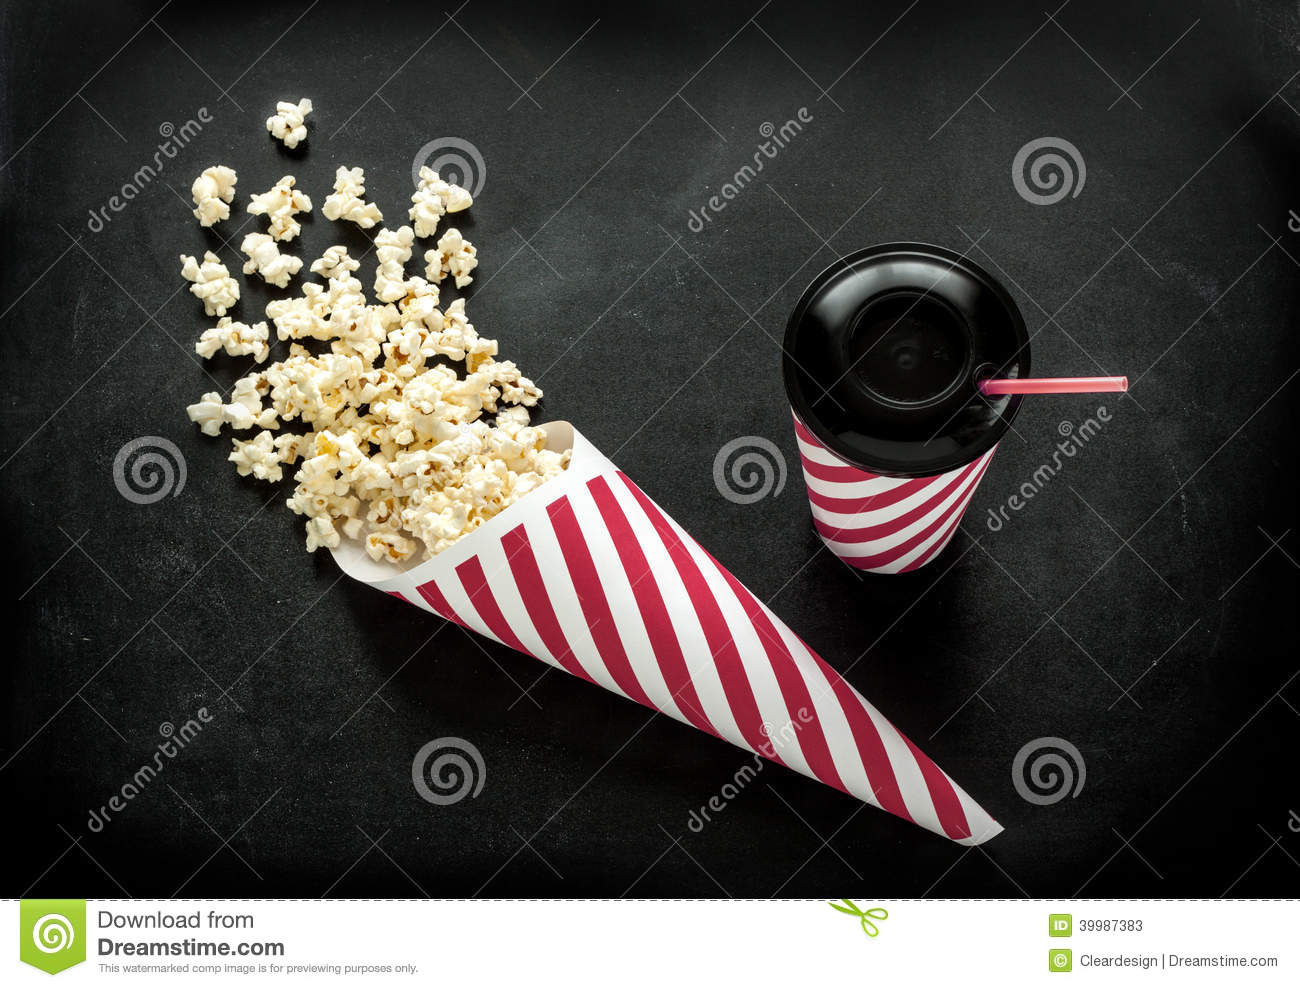
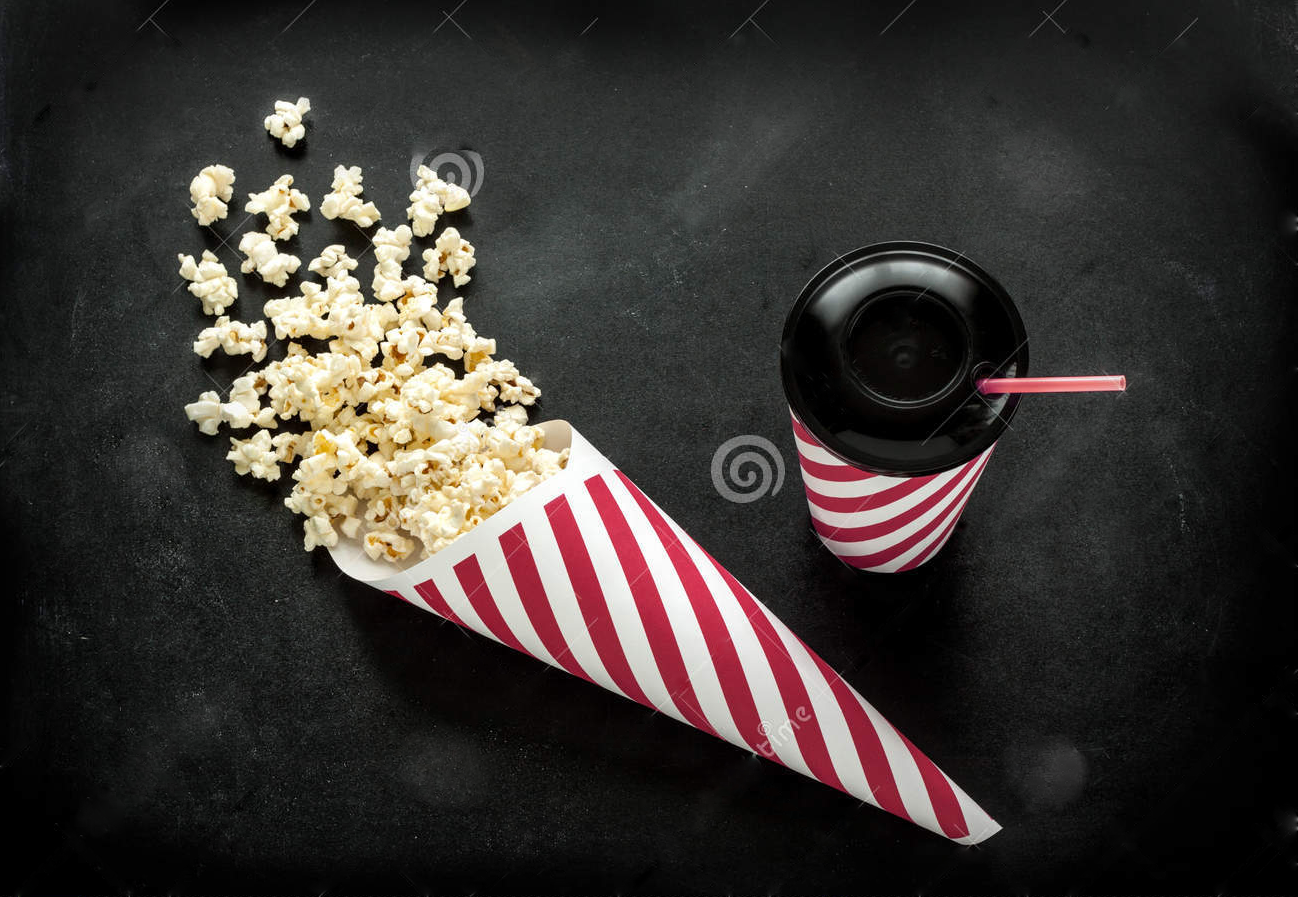
Altered some styling.

diff --git a/index.html b/index.html
@@ -6,13 +6,15 @@
     <title>MMCT Movie Theatre</title>
   </head>
   <body>
-	<h1>Welcome to MMCT Theatre!</h1>
-	<h3>We're happy to see you!</h3>
-	<p><a href="http://Disney Film Website"></a></p>
-	<h1 class="text-center">Now Showing: Beauty and the Beast</h1>
-	<section id="instructions">
-	  <h4>Seating Instructions:</h4>
-	  <p> Please select one available seat. Seats highlighted in green are available. Seats selected in red are not available.</p>
+	<section class="container">
+		<h1>Welcome to MMCT Theatre!</h1>
+		<h3>We're happy to see you!</h3>
+		<p><a href="http://Disney Film Website"></a></p>
+		<h1 class="text-center">Now Showing: Beauty and the Beast</h1>
+		<section id="instructions">
+		  <h4>Seating Instructions:</h4>
+		  <p> Please select one available seat. Seats highlighted in green are available. Seats selected in red are not available.</p>
+		</section>
 	</section>
   	<section class="container">
 	  <section class="row">
@@ -48,14 +50,15 @@
  	    <div class="col-lg-2 col-md-2 col-sm-2 col-xs-2"></div>
  	  </div>
     </section>
-
-	<form id="form">Name: <input type="text" name="name" placeholder="Name">E-mail Address: <input type="text" name="email" placeholder="E-mail address">
-	  <p>Would you recommend our theatre to friends?</p>
-	  <span> Yes</span><input type="radio" name="tier">
-	  <span> No</span><input type="radio" name="tier">
-	  <span> Maybe</span><input type="radio" name="tier">
-	  <button id="submit">Submit</button>
-	</form>
+    <section class="container">
+		<form id="form">Name: <input type="text" name="name" placeholder="Name">E-mail Address: <input type="text" name="email" placeholder="E-mail address">
+		  <p>Would you recommend our theatre to friends?</p>
+		  <span> Yes</span><input type="radio" name="tier">
+		  <span> No</span><input type="radio" name="tier">
+		  <span> Maybe</span><input type="radio" name="tier">
+		  <button id="submit">Submit</button>
+		</form>
+	</section>
 	<script src="script.js"></script>
   </body>
 </html>

diff --git a/style.css b/style.css
@@ -11,31 +11,45 @@ h1, h3, .instructions {
 }
 
 .selected {
-	border: 5px solid green;
+	background-color: green;
 }
 
 .taken {
-	border: 5px solid red;
+	background-color: red;
 }
 
 .reserved {
-	border: 5px solid blue;
+	background-color: blue;
 }
 
 .container {
+	background-color: rgba(204, 204, 204, 0.2);
+	color: white;
 	padding: 20px;
+	text-shadow: 0 0 5px black;
+	height: 100%;
 }
 
-section p {
-	margin-left: 20px;
+.row {
+	padding-left: 20px;
+	padding-right: 20px;
+}
+
+section p, h4 {
+	background-color: green;
 }
 
 body {
-    /*background-image: url("http://thumbs.dreamstime.com/z/cinema-snacks-cornet-popcorn-drink-black-paper-cup-straw-chalkboard-background-39987383.jpg");*/
+	background-color: black;
+    background-image: url(background.png);
+    background-repeat: no-repeat;
+    background-position: center;
 }
 
 form {
-	background-color: purple;
+	background-color: #CCC;
+	color: black;
+	text-shadow: none;
 	margin-left: 50px;
 	margin-right: 50px;
 	padding: 10px;
